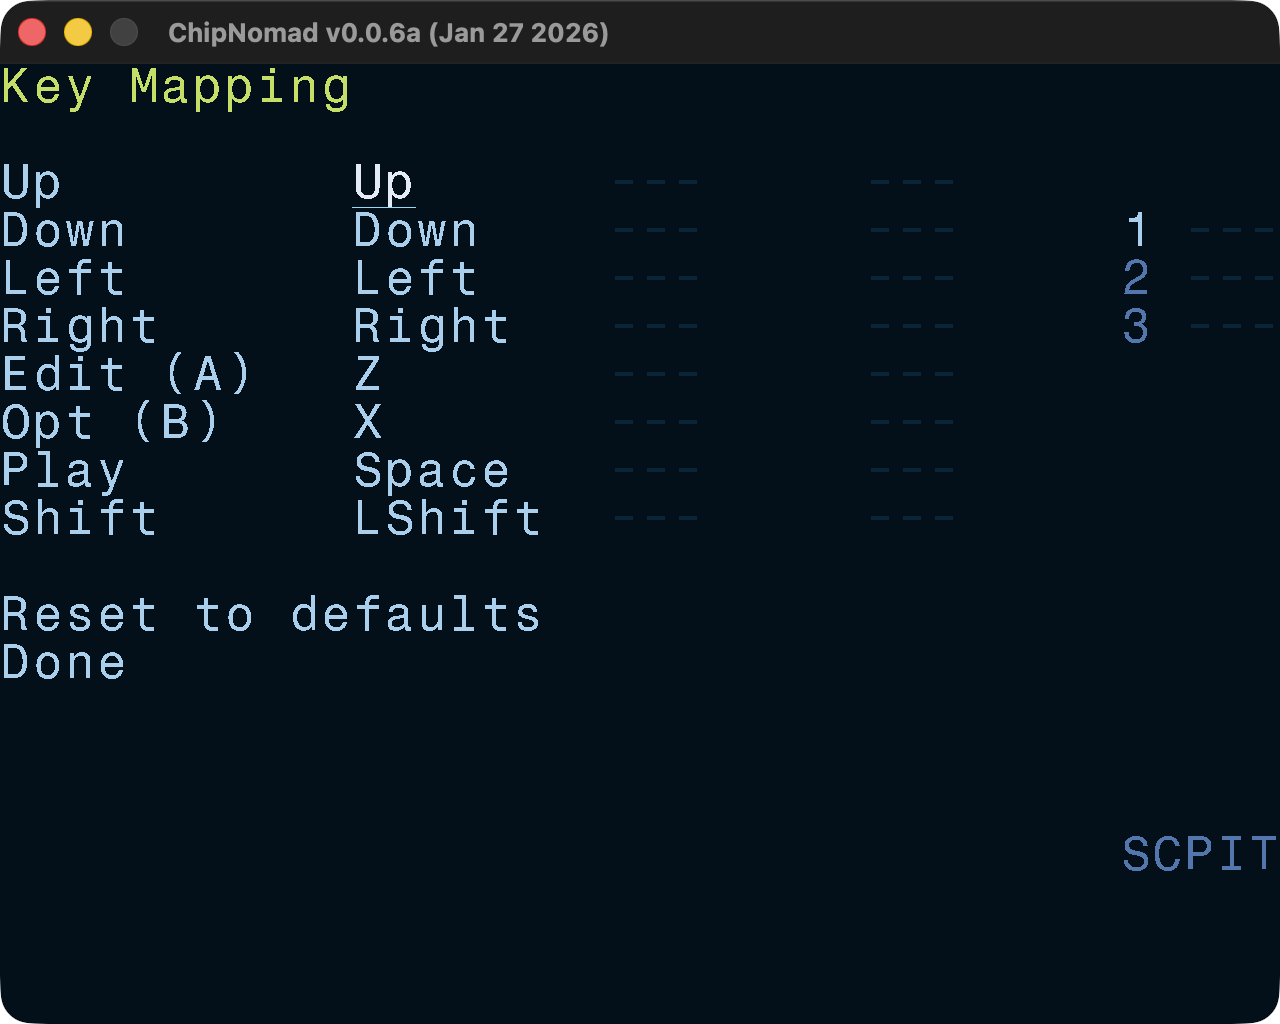
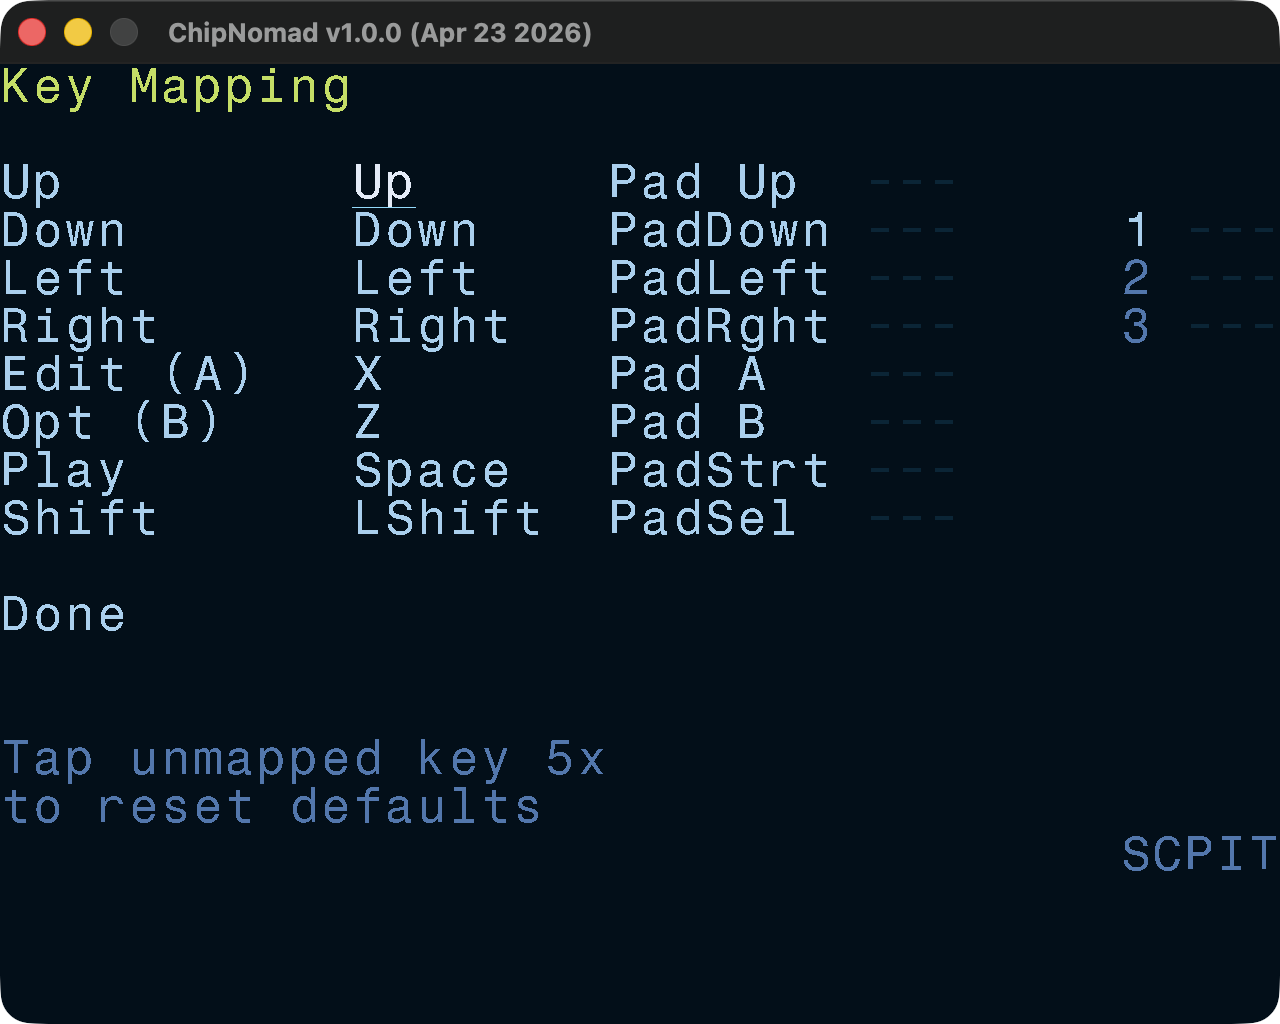
Website updates

diff --git a/website/hugo/assets/sass/_chipnomad.scss b/website/hugo/assets/sass/_chipnomad.scss
@@ -1,7 +1,25 @@
 .cn-download {
-  @include relative-font-size(2);
-  font-weight: bold;
   text-align: center;
+  margin-top: $spacing-unit;
+  margin-bottom: $spacing-unit;
+
+  a {
+    display: inline-block;
+    @include relative-font-size(1.5);
+    font-weight: bold;
+    text-decoration: none;
+    padding: $spacing-unit / 3 $spacing-unit * 1.5;
+    border-radius: 40px;
+    background-color: $link-color;
+    color: $background-color;
+    transition: background-color 0.2s;
+
+    &:hover {
+      background-color: lighten($link-color, 10%);
+      text-decoration: none;
+      color: $background-color;
+    }
+  }
 }
 
 .img-shadow img {

diff --git a/website/hugo/layouts/partials/site-footer.html b/website/hugo/layouts/partials/site-footer.html
@@ -15,7 +15,8 @@
         </div>
       </div>
       <div class="footer-row">
-        © 2025 <a href="https://megus.org">Megus</a><br />
+        © 2025–2026 <a href="https://megus.org">Megus</a><br />
+        ChipNomad logo by <a href="https://linktr.ee/scjreal">SCJ</a><br />
       </div>
     </div>
   </div>

diff --git a/website/hugo/content/manual/tracker-fx/index.md b/website/hugo/content/manual/tracker-fx/index.md
@@ -8,11 +8,24 @@ layout: single
 
 {{< toc >}}
 
+## How FX work in ChipNomad
+
+Each track can have all FX running simultaneously but only one instance of each FX. A few examples to explain this:
+
+1. Put `PVB` in FX1 column in a phrase, and then put `PBN` in the same column lower in the phrase. Pitch bend won't stop the vibrato, both FX will run at the same time.
+2. Put `PBN` in FX2 column in aphrase, then put another `PBN` lower in the phrase in FX1 column. The second `PBN` will simply update the pitch bend speed in the track. To stop pitch bend later you can put `PBN 00` in any FX column.
+
+Effects can be stopped with the value 00. Only `TBL` and `TBX` effects are an exception, they're stopped with value FF.
+
+FX in phrases take priority over FX in tables. For example, if you put `AYM 01` in a table, and then in phrase you put `AYM 03`, the value from the phrase will take over. Overall priority order: instrument table, aux table, phrase.
+
+FX are fully reset when a new instrument is triggered. When you trigger a note with an empty instrument value, currently active FX will either continue (e.g. arpeggio, vibrato) or restart (e.g. pitch bend).
+
 ## General Effects
 
 ### `ARP XY` – Arpeggio
 
-Arpeggiate three notes: base note, +X semitones, and +Y semitones from the base note. Arpeggio speed and mode is controlled by `ARC` command.
+Arpeggiate three notes: base note, +X steps, and +Y steps from the base note. Arpeggio speed and mode is controlled by `ARC` command.
 
 Example: `ARP 37` will play a minor chord arpeggio.
 
@@ -22,7 +35,7 @@ Arpeggio configuration. X is the arpeggio mode (up, down, up/down, octave range)
 
 ### `PVB XY` – Vibrato
 
-Pitch vibrato with the speed of X and Y depth. In linear pitch mode the depth is set in 10 cent steps.
+Pitch vibrato with the speed of X and Y depth. In linear pitch mode the depth is set in 10 cent steps. Vibrato period in ticks is calculated with the formula: `32 - Speed * 2`. So, a vibrato with the speed C will have period `32 - 12 * 2 = 8 ticks`.
 
 ### `PBN XX` – Pitch bend
 
@@ -38,7 +51,7 @@ Offset tone pitch by XX semitones. The offset is accumulated.
 
 ### `FIN XX` - Fine pitch offset
 
-Offset tone pitch by XX. In linear pitch mode the offset is in cents. In regular mode the value is tone period offset (equivalent to PRD FX). The offset is accumulated.
+Offset tone pitch by XX. In linear pitch mode the offset is in cents. In regular mode the value is tone period offset (equivalent to `PRD` FX). The offset is accumulated.
 
 ### `PRD XX` - Tone period offset
 
@@ -50,15 +63,15 @@ Offset volume by XX. The offset is accumulated.
 
 ### `RET XY` – Retrigger
 
-Retrigger note every Y tics. X controls volume change.
+Retrigger note every Y tics. X controls volume change. Y=0 stops the effect.
 
 ### `DEL XX` – Delay note
 
-Delay note start by XX tics. If XX is bigger that the groove value, the note will be skipped.
+Delay note start by XX tics. If XX is greater that the groove value, the note will be skipped.
 
 ### `OFF XX` – Note off
 
-Turn note off after XX tics. Equivalent to putting OFF in the note column and delaying it with DEL FX. Triggers release stage of ADSR envelopes.
+Turn note off after XX tics. Equivalent to putting `OFF` in the note column and delaying it with `DEL` FX. Triggers the release stage of ADSR envelopes.
 
 ### `KIL XX` – Kill note
 
@@ -66,7 +79,7 @@ Turns off note after XX tics. ADSR release stage is not be triggered, the note i
 
 ### `TIC XX` – Set table speed
 
-Set table speed to XX ticks per row.
+Set table speed to XX ticks per row. Changes speed for all table FX columns.
 
 ### `TBL XX` – Set instrument table
 
@@ -82,7 +95,7 @@ Hop to row XX in the instrument table. When used in a table, all FX columns hop 
 
 ### `TXH XX` — Hop all aux table columns
 
-Hop to row XX in the aux table.
+Hop to row XX in the aux table. Doesn't work in tables.
 
 ### `HOP XY`
 
@@ -122,15 +135,15 @@ Set auto envelope rate to X:Y. If X = 0, auto envelope is turned off.
 
 ### `EVB XY` – Envelope vibrato
 
-Envelope vibrato with X speed and Y depth. Similar to PVB command but affects only envelope period.
+Envelope vibrato with X speed and Y depth. Similar to `PVB` command but affects only envelope period.
 
 ### `EBN XX` – Envelope pitch bend
 
-Bend envelope period by XX per phrase/table row. Similar to PBN command but affects only envelope period.
+Bend envelope period by XX per phrase/table row. Similar to `PBN` command but affects only envelope period.
 
 ### `ESL XX` – Envelope pitch slide (portamento)
 
-Slide from the previous to the new envelope period value for XX ticks. Similar to PSL command but affects only envelope period.
+Slide from the previous to the new envelope period value for XX ticks. Similar to `PSL` command but affects only envelope period.
 
 ### `ENT XX` – Envelope pitch as a note
 

diff --git a/website/hugo/content/manual/instrument-screen/index.md b/website/hugo/content/manual/instrument-screen/index.md
@@ -27,21 +27,21 @@ In addition to common instrument parameters, AY instruments have these parameter
 
 - Mixer: tone on/off, noise on/off, envelope shape (0-F)
 - Volume ADSR envelope (software generated)
-- Auto envelope period settings: enabled/disabled, rate (1:1 - 9:9)
+- Auto envelope period settings: enabled/disabled, rate (1:1 - F:F)
 
-AY-3-8910/YM2149F chip can produce only square waves. Tone sound can be mixed with 1-bit noise using logical AND. The chip doesn't hardware ADSR envelopes so they're generated in software. AY has a primitive volume envelope generator which is rarely used for its original purpose. Usually, periodic envelope shapes (8, A, C, E) of the generator are used to create non-square bass sounds. Auto envelope settings control the envelope period.
+AY-3-8910/YM2149F chip can produce only square waves. Tone sound can be mixed with 1-bit noise using logical AND. The chip doesn't have hardware ADSR envelopes so they're generated in software. AY has a primitive volume envelope generator which is rarely used for its original purpose. Usually, periodic envelope shapes (8, A, C, E) of the generator are used to create non-square bass sounds by pushing the envelope period to audio rates. Auto envelope settings control the envelope period. In the Atari ST world, the sound of periodic envelope shapes is known as "buzzer".
 
 A couple of things to try:
 
 - Disable both tone and noise, set env shape to 8 (saw). Enable auto envelope and set rate to 2:1. You've got a nice thick bass sound.
-- Enable tone, disable noise, set env shape to E. Enable auto envelope and set rate to 2:1. You've got a classic "flowing" AY env bass sound. Experiment with rate values, you can get some interesting sounds.
+- Enable tone, disable noise, set env shape to E. Enable auto envelope and set rate to 2:1. You've got a classic "flowing" AY env bass sound. Experiment with rate values, you can get some interesting sounds, especially when rates are not powers of 2 (e.g. 1:3). Enabling both tone and envelope creates ring modulation between the tone square wave and the wave from the envelope generator. The "flowing" effect is created by the difference in tuning precision — envelope period control is less precise.
 
 ### Controls
 
 - **OPT** + \[**LEFT** or **RIGHT**\]: navigate between instruments:
 - **EDIT** + **PLAY**: preview instrument:
 - **SHIFT** + **OPT**: copy instrument
-- **SHIFT** + **PLAY**: paste instrument
+- **SHIFT** + **EDIT**: paste instrument
 
 ## Instrument Pool
 
@@ -54,4 +54,5 @@ This is a convenient screen where you can see all project instruments and reorde
 - **EDIT**: edit instrument (jumps to Instrument screen)
 - **SHIFT** + **OPT**: copy instrument
 - **SHIFT** + **EDIT**: paste instrument
-- Hold **EDIT**, then **UP** / **DOWN**: reorder instruments
+- **EDIT** + \[**UP** or **DOWN**\]: reorder instruments
+- **EDIT** + **PLAY**: preview instrument

diff --git a/website/hugo/content/manual/settings-screen/index.md b/website/hugo/content/manual/settings-screen/index.md
@@ -12,9 +12,9 @@ Setting screen has a few useful settings:
 
 - **Pitch conflict warning**. Because the tone phase is unpredictable on AY, playing sounds with the same pitch on different tracks can create unpleasant phasing effects. When this option is enabled, such conflicts will be highlighted during playback to help with detecting and fixing them.
 - **Mix volume**. This is master mix volume and you may need to lower it if you use multiple chips. 60% works well for 1 AY chip and 40% is good for 2 AY chips. When audio overload happens, it will be highlighted in the playback preview area.
-- **Quality**. Changes the resampling filter quality for Ayumi AY emulation engine. Most platforms should be fine with the BEST, but pre-2024 RG35xx may need lower setting.
-- **Gamepad swap A/B**. Swap A and B keys on a controller, mostly useful for desktop builds.
+- **Quality**. Changes the resampling filter quality for Ayumi AY emulation engine. Most platforms should be fine with the BEST, but pre-2024 RG35xx may need a lower setting.
 - **Key mapping**. Opens [key mapping screen](#key-mapping).
+- **Load Font**. ChipNomad comes with a few bitmap fonts and it's possible to create your own.
 - **Edit color theme**. Opens [color theme screen](#color-theme).
 
 ## Color Theme
@@ -27,4 +27,4 @@ Edit, load, and save color themes. Make ChipNomad truly yours!
 
 ![](key-mapping.png)
 
-Redefine standard keys and map up to 3 physical keys to each logical key. ChipNomad falls back to default key mapping if a key doesn't have any mapping at this screen.
+Redefine standard keys and map up to 3 physical keys to each logical key. On desktop platforms you can also map gamepad buttons. In case you messed up the key mapping, you can press any unmapped button 5 times to reset to default key mapping. Or you can delete `settings.txt` file after closing the tracker — ChipNomad will re-create it with the default key mapping on the next launch.

diff --git a/website/hugo/content/manual/table-screen/index.md b/website/hugo/content/manual/table-screen/index.md
@@ -9,16 +9,18 @@ layout: single
 ![](table.png)
 
 Tables are the main sound design tool in ChipNomad. If you're familiar with Vortex Tracker, tables are
-the mix of instruments and ornaments and can do even more. If you're familiar with LSDJ and M8, you know
+the mix of instruments and ornaments. But you can do much more with tables. If you're familiar with LSDJ and M8, you know
 what tables are.
 
 Pitch column can have relative (**~**) or absolute (**=**) pitch values in semitones. Volume is applied on top of ADSR
 envelope. Four FX lanes are generally equal to FX lanes in phrase, however, there are minor differences
 in the behavior of some FX in phrases and tables.
 
-Putting `TIC` FX on the last table row will set the speed for this column, overriding the default table speed from the instrument.
+Putting `TIC` FX on the last table row will set the speed for this column, overriding the default table speed from the instrument. Each FX column in the table can run with a different tick speed. Pitch and volume columns are tied to the speed of the first FX column.
 
-Tables 00-7F are reserved for default instrument tables, tables 80-FE can be used as aux tables (TBX effect).
+Having only 16 rows in a table may seem limiting if you compare it to, for example, longer instruments in the Vortex Tracker. However, `HOP` FX lets you create conditional loops ("repeat rows 5 times") and even nested loops. Loops and different speeds of FX columns significantly increase sound design possibilities.
+
+Tables 00-7F are reserved for default instrument tables, tables 80-FE can be used as aux tables (TBX effect). While you can use tables in the 00-7F range as aux tables, it's not recommended to avoid unexpected conflicts and confusion.
 
 ## Controls
 

diff --git a/website/hugo/content/_index.md b/website/hugo/content/_index.md
@@ -3,22 +3,21 @@ title: ChipNomad
 description: ChipNomad - a chiptune tracker for handheld consoles
 ---
 
-**ChipNomad** is a chiptune tracker for handheld consoles like Anbernic RG35xx and others.
+**ChipNomad** is a chiptune tracker for emulator handheld consoles ([Anbernic](https://anbernic.com), [TrimUI](https://trimui.net), [Retroid](https://www.goretroid.com), etc) and desktop platforms.
 It is heavily inspired by [LSDJ](https://www.littlesounddj.com) and [Dirtywave M8 tracker](https://dirtywave.com).
 
-ChipNomad currently lets you make music for AY-3-8910/YM2149F chips with more chips
-coming in the future. It is under development now with fully functional alpha versions available
-for download.
+ChipNomad will support different chips, but currently you can make music for AY-3-8910/YM2149F chips only.
 
 <p class="cn-download"><a href="https://github.com/Megus/chipnomad-tracker/releases">Download ChipNomad</a></p>
-
-{{< youtube 8jQGO4IxXOs >}}
 
 ChipNomad is available for multiple platforms:
 
 - All devices supported by [PortMaster](https://portmaster.games)
 - Pre-2024 Anbernic RG35xx with GarlicOS 1
+- MiyooMini+ (MiyooPorts)
 - Windows
 - macOS
+- Linux (x86 64-bit) — can be run on Steam Deck
+- Android — handhelds like Retroid Pocket 5, smartphones, and tablets
 
-ChipNomad logo by [SCJ](https://linktr.ee/scjreal).
+{{< youtube 8jQGO4IxXOs >}}

diff --git a/website/hugo/content/manual/_index.md b/website/hugo/content/manual/_index.md
@@ -22,6 +22,7 @@ ChipNomad currently supports only [AY-3-8910/YM2149F](https://en.wikipedia.org/w
 - [Project Screen](project-screen/)
 - [Settings Screen](settings-screen/)
 - [Tracker FX reference](tracker-fx/)
+- [File Browser Screen](file-browser/)
 
 ## Introduction
 
@@ -61,9 +62,9 @@ ChipNomad uses 8 logical buttons. The default mapping on consoles and desktops:
 | **PLAY**   | Start       | Space        |
 | **SHIFT**  | Select      | Shift        |
 
-You can define your own keys and have up to 3 physical buttons mapped to each logical button.
+You can define your own keys and have up to 3 physical buttons mapped to each logical button. You can also use gamepads.
 
-To quit ChipNomad use the button at the Setings screen or press MENU + X on consoles.
+To quit ChipNomad use the button at the Setings screen or press **MENU** + **X** on consoles.
 
 ### Navigation
 
@@ -81,7 +82,8 @@ To quit ChipNomad use the button at the Setings screen or press MENU + X on cons
 
 ### Selection and Clipboard
 
-- **SHIFT** + **OPT**: enter selection mode
+- **SHIFT** + **OPT**: enter selection mode. Press multiple times to iterate through convenient selection ranges
+- **DIRECTION**: select range
 - **EDIT** + \[**DIRECTION**\]: multi-edit — edit all values in selection
 - **OPT**: copy selection
 - **OPT** + **EDIT**: cut selection

diff --git a/website/hugo/content/manual/song-screen/index.md b/website/hugo/content/manual/song-screen/index.md
@@ -17,10 +17,10 @@ You can have multiple sub-songs in a project by creating "islands" — sections 
 In addition to the [common controls](/manual/#common-controls) the following controls are available:
 
 - **OPT** + \[**UP** or **DOWN**\]: jump 16 positions up/down
-- Select range, then **SHIFT** + **EDIT**: clone chains
-- Select range, then **SHIFT** + Double-tap **EDIT**: deep clone chains — clone both chains and phrases in chains
+- Select range, then **SHIFT** + **EDIT**: shallow clone — cloned chains will have the same phrases
+- Select range, then **SHIFT** + Double-tap **EDIT**: deep clone — clone both chains and phrases in chains
 - Select range, then **EDIT** + \[**UP** or **DOWN**\]: move selection up or down
-- Triple-tap **OPT**: "bookmark" a chain
+- Triple-tap **OPT**: add/remove a highlight, use it for visual organization of the project
 - **OPT** + **SHIFT**: Mute current track (release **OPT** first to hold the mute)
 - **OPT** + **PLAY**: Solo current track (release **OPT** first to hold the mute)
 - **OPT** + \[**LEFT** or **RIGHT**\]: solo all tracks to the left or to the right of the current track

diff --git a/website/hugo/content/manual/phrase-screen/index.md b/website/hugo/content/manual/phrase-screen/index.md
@@ -12,7 +12,7 @@ The phrase screen layout should be familiar for everyone who is familiar with tr
 
 Phrases are 16 rows long, unlike patterns in classic trackers. But when you have a chain with multiple phrases, then the Phrase screen works similar to a pattern editor: when you do below row F or above row 0, Phrase screen moves to the next/previous phrase in the chain.
 
-If the phrase is used in the project multiple times, then there will be an asterisk (**\***) character next to its number.
+If the phrase is used in the project multiple times, then there will be an asterisk (**\***) character next to its number. You can clone phrases at the [Chain](/manual/chain-screen/) screen.
 
 ## Controls
 
@@ -23,3 +23,4 @@ In addition to the [common controls](/manual/#common-controls) the following con
 - **OPT** + \[**LEFT** or **RIGHT**\]: navigate between tracks
 - **OPT** + \[**UP** or **DOWN**\]: navigate between phrases in the current chain
 - Select range in the instrument column, then **SHIFT** + **EDIT**: clone instruments
+- Select range, then **EDIT** + \[**UP** or **DOWN**\]: rotate phrase rows

diff --git a/website/hugo/content/manual/groove-screen/index.md b/website/hugo/content/manual/groove-screen/index.md
@@ -10,7 +10,7 @@ layout: single
 
 As a true chiptune tracker, ChipNomad takes in account certain constraints of real retro platforms and doesn't let you directly control BPM. Instead, it uses tick rate and grooves to control the song tempo and, well, groove.
 
-On the real platforms (e.g. ZX Spectrum) the tick rate is tied to the frame rate (usually, 50 or 60Hz). ChipNomad allows you to define tick rate up to 200Hz at the [Project screen](project-screen/).
+On the real platforms (e.g. ZX Spectrum) the tick rate is tied to the frame rate (usually, 50 or 60Hz). ChipNomad allows you to define tick rate up to 200Hz at the [Project screen](project-screen/). Note that playing tracks with non-standard tick rate on the real retro hardware will require custom players.
 
 Groove table values define the duration of a phrase row in ticks.
 

diff --git a/website/hugo/content/manual/chain-screen/index.md b/website/hugo/content/manual/chain-screen/index.md
@@ -10,7 +10,7 @@ layout: single
 
 A chain is a sequence of phrases. You can have up to 16 phrases in a chain and use the same phrase many times. The second column is the transpose value in semitones.
 
-If the chain is used in the project multiple times, then there will be an asterisk (**\***) character next to its number.
+If the chain is used in the project multiple times, then there will be an asterisk (**\***) character next to its number. You can clone Chains at the [Song](/manual/song-screen) screen.
 
 ## Controls
 
